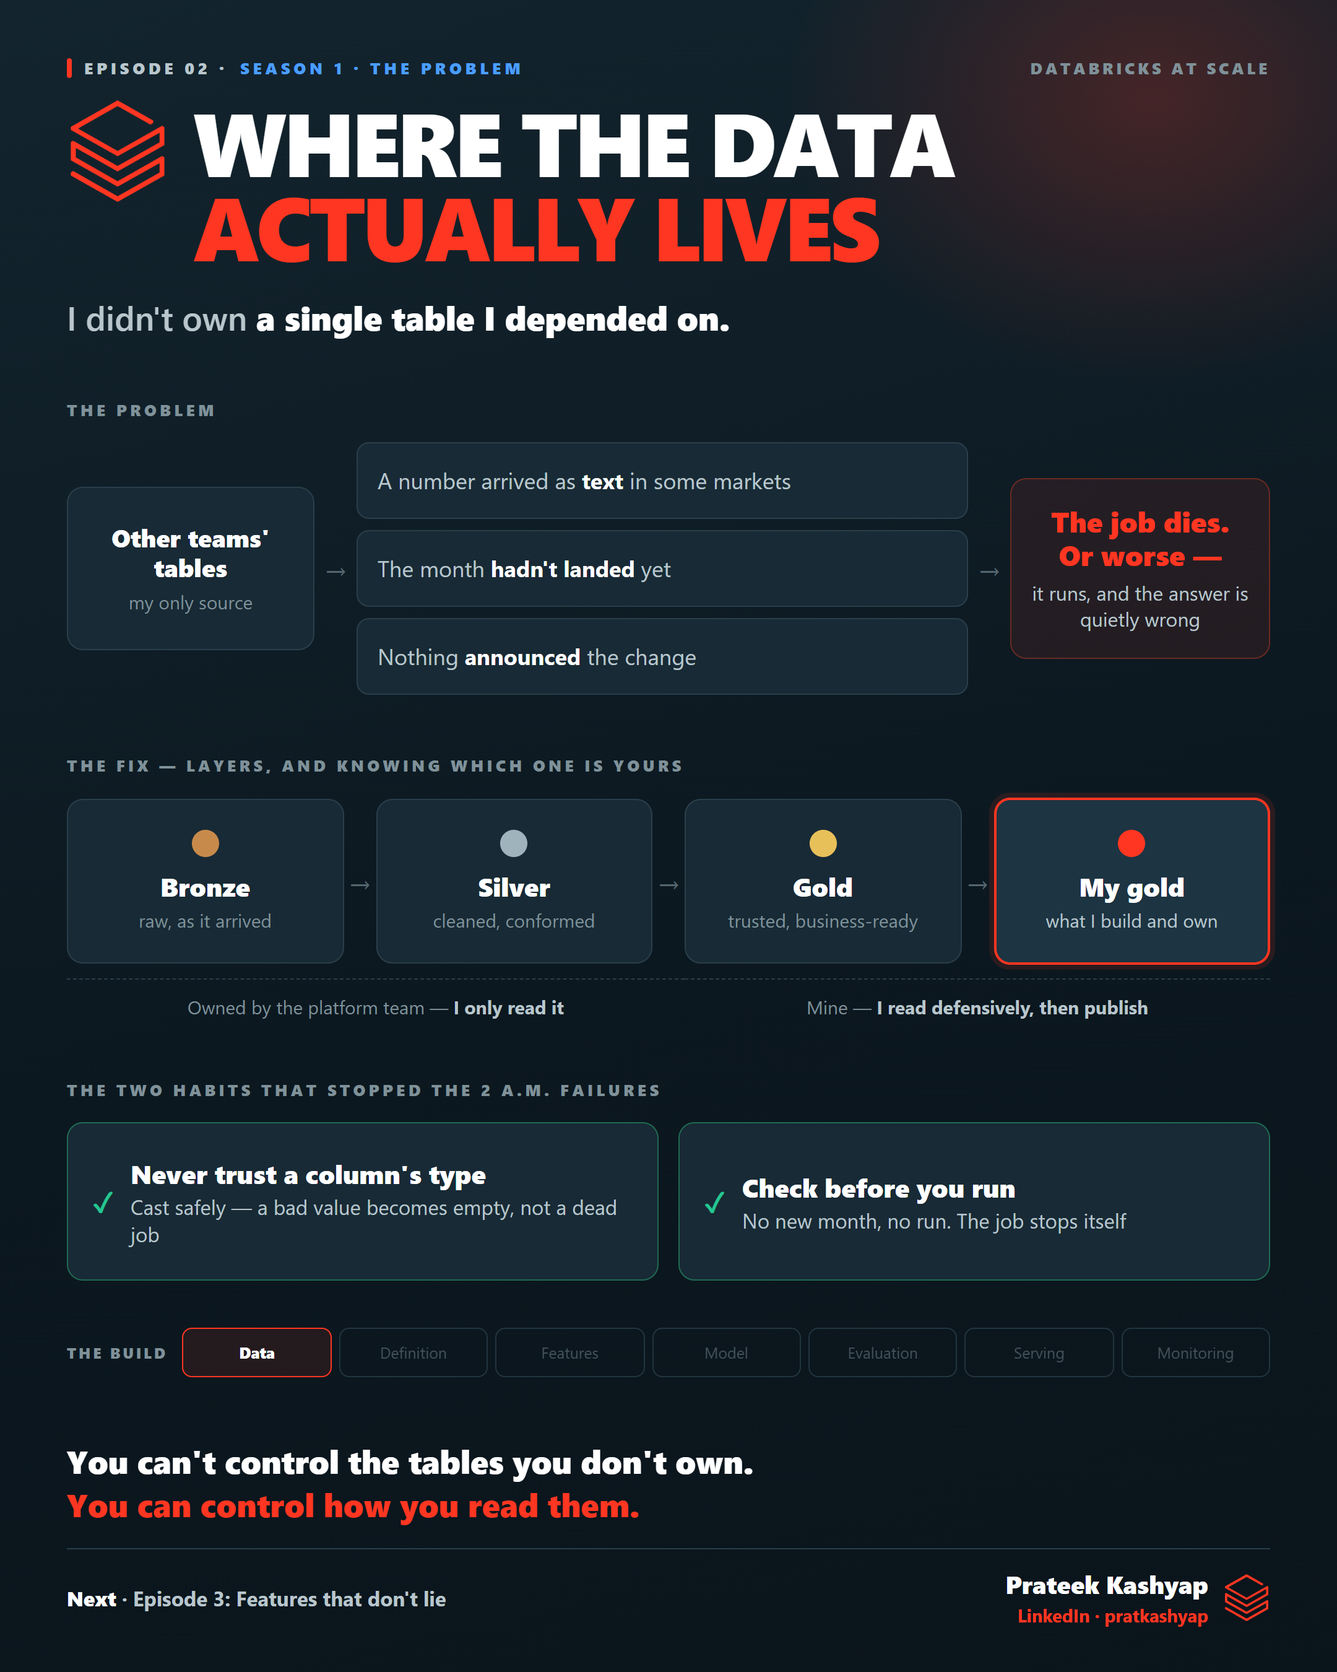
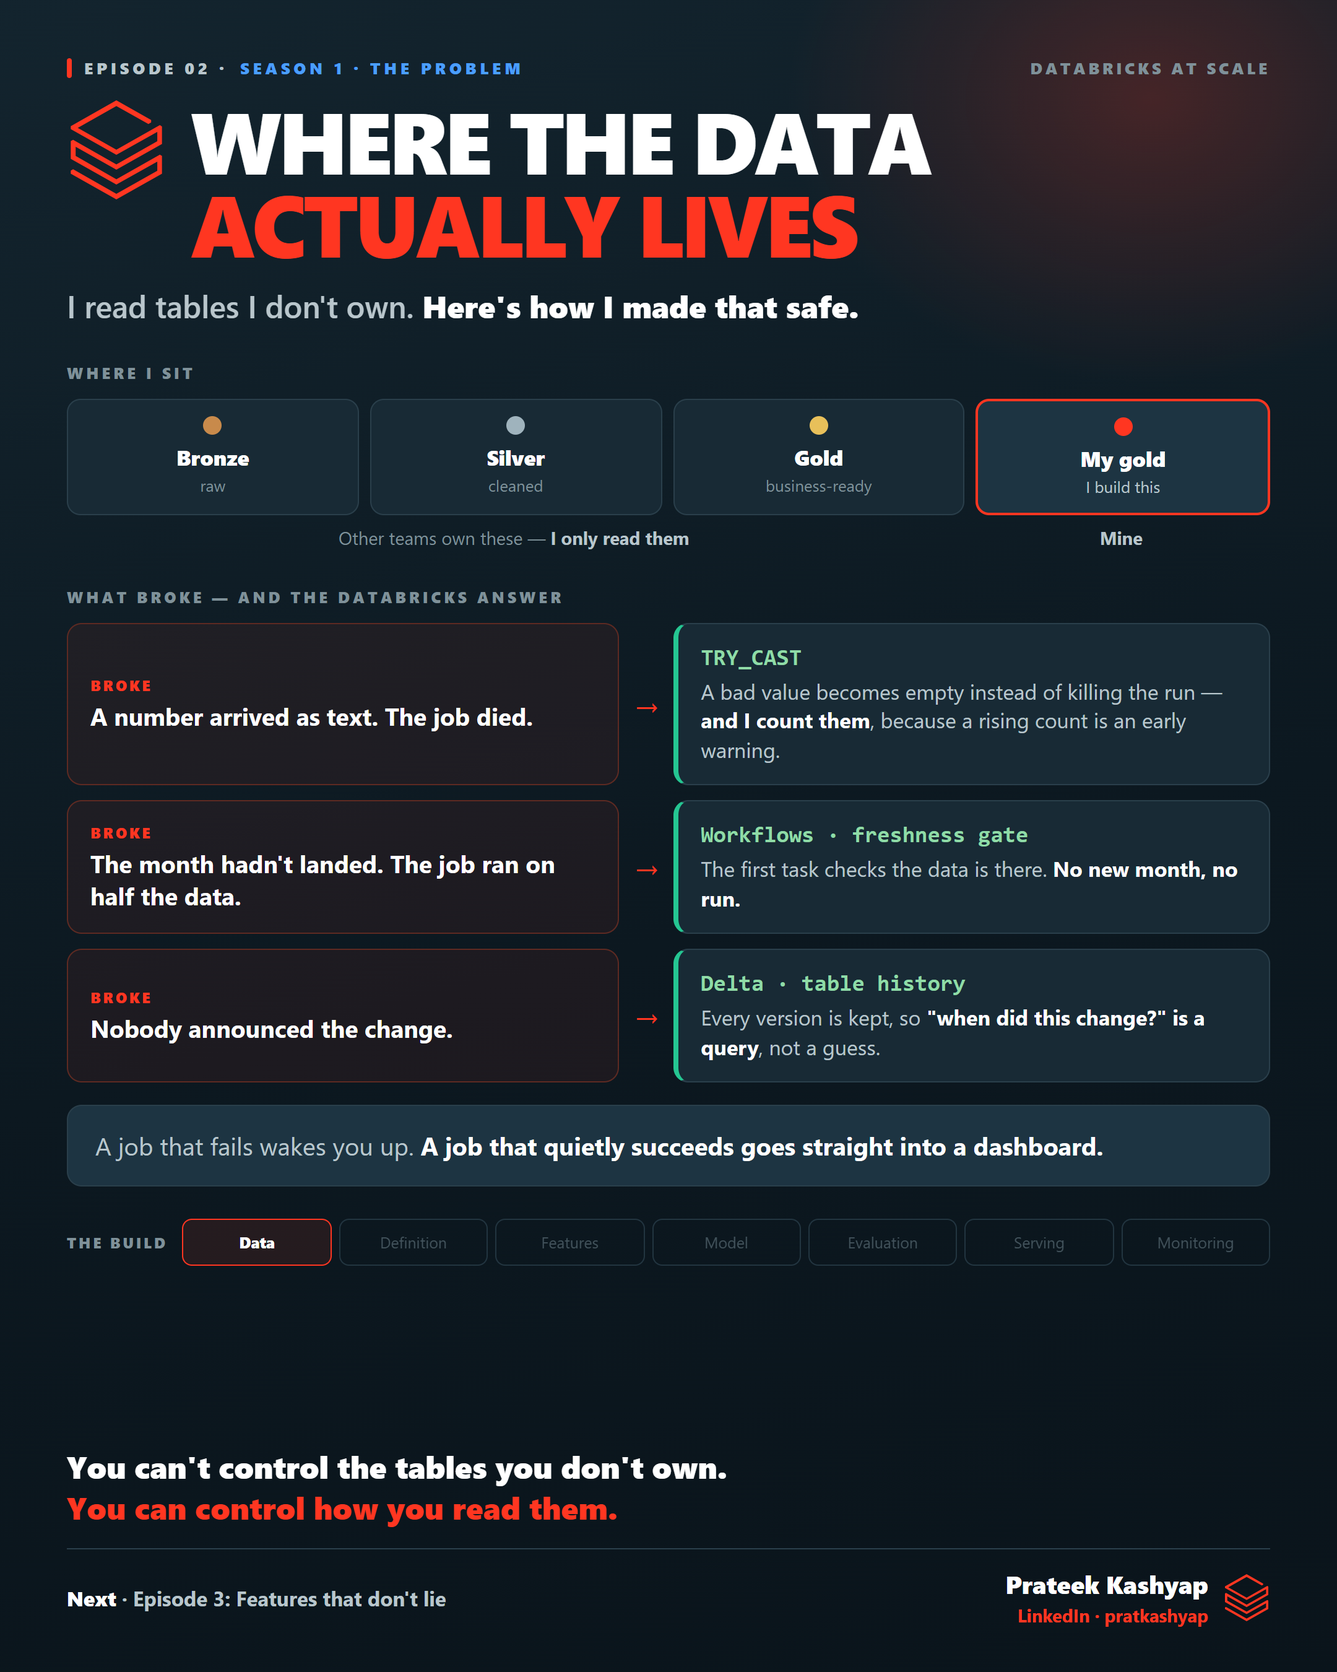
Episode 02 rewritten: pair every problem with the feature that solves it
The post named three failures then named Delta features that solved none of
them. Now each problem is answered one-to-one, and the poster shows the same
three pairs in the same order.

diff --git a/episodes/02-where-the-data-lives/ep02-poster.html b/episodes/02-where-the-data-lives/ep02-poster.html
@@ -7,7 +7,7 @@
   :root{
     --bg1:#0c1820; --bg2:#13242e; --card:#182a35;
     --ink:#ffffff; --ink2:#b9c6cc; --ink3:#7f9199; --dim:#54666f;
-    --red:#ff3621; --line:#2a3f4b; --s1:#4a9eff; --good:#25c692; --warn:#ffb020;
+    --red:#ff3621; --line:#2a3f4b; --s1:#4a9eff; --good:#25c692;
     --bronze:#c88a4b; --silver:#9fb3bd; --gold:#e8c05a;
   }
   *{box-sizing:border-box;margin:0;padding:0}
@@ -24,59 +24,51 @@
   .badge .s{color:var(--s1)}
   .badge .series{margin-left:auto;color:var(--ink3);letter-spacing:.18em}
   .title{display:grid;grid-template-columns:auto 1fr;column-gap:20px;margin-top:16px;align-items:start}
-  .logo{width:82px;height:82px;margin-top:2px}
-  h1{font-size:72px;line-height:.95;letter-spacing:-.04em;font-weight:900;text-transform:uppercase}
+  .logo{width:80px;height:80px;margin-top:2px}
+  h1{font-size:70px;line-height:.95;letter-spacing:-.04em;font-weight:900;text-transform:uppercase}
   h1 .l2{display:block;color:var(--red)}
-  .sub{font-size:27px;font-weight:600;color:var(--ink2);margin-top:22px}
+  .sub{font-size:25px;font-weight:600;color:var(--ink2);margin-top:18px}
   .sub b{color:#fff;font-weight:800}
 
-  .h{font-size:13px;font-weight:800;letter-spacing:.2em;text-transform:uppercase;color:var(--ink3);margin:48px 0 18px}
+  .h{font-size:12.5px;font-weight:800;letter-spacing:.2em;text-transform:uppercase;color:var(--ink3);margin:30px 0 13px}
 
-  /* band 1 */
-  .mess{display:grid;grid-template-columns:200px 34px 1fr 34px 210px;align-items:center}
-  .mk{background:var(--card);border:1.5px solid var(--line);border-radius:13px;padding:28px 16px;text-align:center}
-  .mk .lb{font-size:20px;font-weight:800;line-height:1.2}
-  .mk .cap{font-size:15px;color:var(--ink3);margin-top:6px}
-  .arw{text-align:center;color:var(--dim);font-size:22px;font-weight:700}
-  .qs{display:flex;flex-direction:column;gap:9px}
-  .q{background:var(--card);border:1.5px solid var(--line);border-radius:10px;padding:18px 16px;font-size:18px;color:var(--ink2)}
-  .q b{color:#fff;font-weight:700}
-  .bad{background:rgba(255,54,33,.09);border:1.5px solid #6a2a22;border-radius:13px;padding:20px 14px;text-align:center}
-  .bad .big{font-size:23px;font-weight:900;color:var(--red);line-height:1.2}
-  .bad .cap{font-size:16px;color:var(--ink2);margin-top:7px;line-height:1.3}
+  /* where I sit */
+  .lanes{display:flex;align-items:stretch;gap:9px}
+  .lane{flex:1;background:var(--card);border:1.5px solid var(--line);border-radius:11px;padding:13px 10px;text-align:center}
+  .lane .dot{width:15px;height:15px;border-radius:50%;margin:0 auto 7px}
+  .lane .t{font-size:17px;font-weight:800}
+  .lane .c{font-size:13px;color:var(--ink3);margin-top:3px}
+  .lane.mine{border:2px solid var(--red);background:#1d3442}
+  .lane.mine .c{color:var(--ink2)}
+  .own{display:grid;grid-template-columns:3fr 1fr;gap:9px;margin-top:8px;font-size:14.5px}
+  .own div{text-align:center;color:var(--ink3)}
+  .own b{color:var(--ink2)}
 
-  /* band 2 - medallion */
-  .med{display:grid;grid-template-columns:1fr 26px 1fr 26px 1fr 26px 1fr;align-items:center}
-  .lay{background:var(--card);border:1.5px solid var(--line);border-radius:13px;padding:24px 14px;text-align:center}
-  .lay .dot{width:22px;height:22px;border-radius:50%;margin:0 auto 9px}
-  .lay .t{font-size:21px;font-weight:900}
-  .lay .c{font-size:15px;color:var(--ink3);margin-top:5px;line-height:1.3}
-  .lay.mine{border:2px solid var(--red);background:#1d3442;box-shadow:0 0 0 4px rgba(255,54,33,.12)}
-  .lay.mine .c{color:var(--ink2)}
-  .owner{display:grid;grid-template-columns:calc(50% + 13px) 1fr;gap:0;margin-top:11px;font-size:15px}
-  .owner div{text-align:center;color:var(--ink3);border-top:1.5px dashed var(--line);padding-top:12px}
-  .owner b{color:var(--ink2)}
+  /* problem -> answer */
+  .pair{display:grid;grid-template-columns:1fr 44px 1.08fr;align-items:stretch;margin-bottom:12px}
+  .pb{background:rgba(255,54,33,.07);border:1.5px solid #5e2a22;border-radius:12px;padding:16px 18px;display:flex;flex-direction:column;justify-content:center}
+  .pb .n{font-size:12px;font-weight:800;letter-spacing:.16em;text-transform:uppercase;color:var(--red);margin-bottom:5px}
+  .pb .t{font-size:19.5px;font-weight:700;line-height:1.32;color:#fff}
+  .ar{display:flex;align-items:center;justify-content:center;color:var(--red);font-size:24px;font-weight:700}
+  .an{background:var(--card);border:1.5px solid var(--line);border-left:4px solid var(--good);border-radius:12px;padding:16px 18px}
+  .an .tool{font-family:Consolas,"SF Mono",Menlo,monospace;font-size:18.5px;font-weight:700;color:#8fdba7}
+  .an .t{font-size:17px;color:var(--ink2);line-height:1.38;margin-top:5px}
+  .an .t b{color:#fff}
 
-  /* band 3 */
-  .two{display:grid;grid-template-columns:1fr 1fr;gap:16px}
-  .k{background:var(--card);border:1.5px solid var(--line);border-radius:13px;padding:26px 20px;display:flex;align-items:center;gap:14px}
-  .k.in{border-color:#1f6b53} .k.out{border-color:#6b5520}
-  .k .tick{font-size:22px;font-weight:900;flex:none}
-  .k.in .tick{color:var(--good)} .k.out .tick{color:var(--warn)}
-  .k .kn{font-size:21px;font-weight:900}
-  .k .kw{font-size:16.5px;color:var(--ink2);margin-top:2px}
+  .rule{margin-top:6px;background:#1d3442;border:1.5px solid var(--line);border-radius:12px;padding:18px 22px;font-size:20px;line-height:1.4;color:var(--ink2)}
+  .rule b{color:#fff}
 
-  .strip{margin-top:38px;display:flex;align-items:center;gap:6px}
+  .strip{margin-top:26px;display:flex;align-items:center;gap:6px}
   .sl{font-size:12px;font-weight:800;letter-spacing:.16em;text-transform:uppercase;color:var(--ink3);white-space:nowrap;margin-right:6px}
-  .sn{flex:1;border:1.5px solid var(--line);border-radius:8px;padding:11px 3px;text-align:center;font-size:12.5px;color:var(--dim);opacity:.75}
+  .sn{flex:1;border:1.5px solid var(--line);border-radius:8px;padding:10px 3px;text-align:center;font-size:12.5px;color:var(--dim);opacity:.75}
   .sn.on{opacity:1;color:#fff;font-weight:800;border-color:var(--red);background:rgba(255,54,33,.1)}
 
-  .take{margin-top:auto;padding-top:22px;font-size:26px;font-weight:800;line-height:1.35}
+  .take{margin-top:auto;padding-top:20px;font-size:25px;font-weight:800;line-height:1.35}
   .take span{color:var(--red)}
-  .foot{margin-top:18px;padding-top:14px;border-top:1.5px solid var(--line);display:flex;align-items:center;justify-content:space-between}
+  .foot{margin-top:16px;padding-top:14px;border-top:1.5px solid var(--line);display:flex;align-items:center;justify-content:space-between}
   .fl{font-size:16.5px;font-weight:700;color:var(--ink2)} .fl b{color:#fff}
   .fr{display:flex;align-items:center;gap:12px;text-align:right}
-  .fr .n{font-size:20px;font-weight:900}
+  .fr .n2{font-size:20px;font-weight:900}
   .fr .u{font-size:14.5px;font-weight:700;color:var(--red);margin-top:2px}
   .fr svg{width:38px;height:38px}
 </style>
@@ -91,43 +83,41 @@
     <svg class="logo" viewBox="0 0 24 24" fill="#FF3621"><path d="M.95 14.184L12 20.403l9.919-5.55v2.21L12 22.662l-10.484-5.96-.565.308v.77L12 24l11.05-6.218v-4.317l-.515-.309L12 19.118l-9.867-5.653v-2.21L12 16.805l11.05-6.218V6.32l-.515-.308L12 11.974 2.647 6.681 12 1.388l7.76 4.368.668-.411v-.566L12 0 .95 6.27v.72L12 13.207l9.919-5.55v2.26L12 15.52 1.516 9.56l-.565.308Z"/></svg>
     <h1>Where the data<span class="l2">actually lives</span></h1>
   </div>
-  <div class="sub">I didn't own <b>a single table I depended on.</b></div>
+  <div class="sub">I read tables I don't own. <b>Here's how I made that safe.</b></div>
 
-  <div class="h">The problem</div>
-  <div class="mess">
-    <div class="mk"><div class="lb">Other teams'<br>tables</div><div class="cap">my only source</div></div>
-    <div class="arw">→</div>
-    <div class="qs">
-      <div class="q">A number arrived as <b>text</b> in some markets</div>
-      <div class="q">The month <b>hadn't landed</b> yet</div>
-      <div class="q">Nothing <b>announced</b> the change</div>
-    </div>
-    <div class="arw">→</div>
-    <div class="bad"><div class="big">The job dies.<br>Or worse —</div><div class="cap">it runs, and the answer is quietly wrong</div></div>
+  <div class="h">Where I sit</div>
+  <div class="lanes">
+    <div class="lane"><div class="dot" style="background:var(--bronze)"></div><div class="t">Bronze</div><div class="c">raw</div></div>
+    <div class="lane"><div class="dot" style="background:var(--silver)"></div><div class="t">Silver</div><div class="c">cleaned</div></div>
+    <div class="lane"><div class="dot" style="background:var(--gold)"></div><div class="t">Gold</div><div class="c">business-ready</div></div>
+    <div class="lane mine"><div class="dot" style="background:var(--red)"></div><div class="t">My gold</div><div class="c">I build this</div></div>
   </div>
+  <div class="own"><div>Other teams own these — <b>I only read them</b></div><div><b>Mine</b></div></div>
 
-  <div class="h">The fix — layers, and knowing which one is yours</div>
-  <div class="med">
-    <div class="lay"><div class="dot" style="background:var(--bronze)"></div><div class="t">Bronze</div><div class="c">raw, as it arrived</div></div>
-    <div class="arw">→</div>
-    <div class="lay"><div class="dot" style="background:var(--silver)"></div><div class="t">Silver</div><div class="c">cleaned, conformed</div></div>
-    <div class="arw">→</div>
-    <div class="lay"><div class="dot" style="background:var(--gold)"></div><div class="t">Gold</div><div class="c">trusted, business-ready</div></div>
-    <div class="arw">→</div>
-    <div class="lay mine"><div class="dot" style="background:var(--red)"></div><div class="t">My gold</div><div class="c">what I build and own</div></div>
-  </div>
-  <div class="owner">
-    <div>Owned by the platform team — <b>I only read it</b></div>
-    <div>Mine — <b>I read defensively, then publish</b></div>
+  <div class="h">What broke — and the Databricks answer</div>
+
+  <div class="pair">
+    <div class="pb"><div class="n">Broke</div><div class="t">A number arrived as text. The job died.</div></div>
+    <div class="ar">→</div>
+    <div class="an"><div class="tool">TRY_CAST</div>
+      <div class="t">A bad value becomes empty instead of killing the run — <b>and I count them</b>, because a rising count is an early warning.</div></div>
   </div>
 
-  <div class="h">The two habits that stopped the 2 a.m. failures</div>
-  <div class="two">
-    <div class="k in"><span class="tick">✓</span><div><div class="kn">Never trust a column's type</div>
-      <div class="kw">Cast safely — a bad value becomes empty, not a dead job</div></div></div>
-    <div class="k in"><span class="tick">✓</span><div><div class="kn">Check before you run</div>
-      <div class="kw">No new month, no run. The job stops itself</div></div></div>
+  <div class="pair">
+    <div class="pb"><div class="n">Broke</div><div class="t">The month hadn't landed. The job ran on half the data.</div></div>
+    <div class="ar">→</div>
+    <div class="an"><div class="tool">Workflows · freshness gate</div>
+      <div class="t">The first task checks the data is there. <b>No new month, no run.</b></div></div>
   </div>
+
+  <div class="pair">
+    <div class="pb"><div class="n">Broke</div><div class="t">Nobody announced the change.</div></div>
+    <div class="ar">→</div>
+    <div class="an"><div class="tool">Delta · table history</div>
+      <div class="t">Every version is kept, so <b>"when did this change?" is a query</b>, not a guess.</div></div>
+  </div>
+
+  <div class="rule">A job that fails wakes you up. <b>A job that quietly succeeds goes straight into a dashboard.</b></div>
 
   <div class="strip">
     <span class="sl">The build</span>
@@ -145,7 +135,7 @@
   <div class="foot">
     <div class="fl"><b>Next</b> · Episode 3: Features that don't lie</div>
     <div class="fr">
-      <div><div class="n">Prateek Kashyap</div><div class="u">LinkedIn · pratkashyap</div></div>
+      <div><div class="n2">Prateek Kashyap</div><div class="u">LinkedIn · pratkashyap</div></div>
       <svg viewBox="0 0 24 24" fill="#FF3621"><path d="M.95 14.184L12 20.403l9.919-5.55v2.21L12 22.662l-10.484-5.96-.565.308v.77L12 24l11.05-6.218v-4.317l-.515-.309L12 19.118l-9.867-5.653v-2.21L12 16.805l11.05-6.218V6.32l-.515-.308L12 11.974 2.647 6.681 12 1.388l7.76 4.368.668-.411v-.566L12 0 .95 6.27v.72L12 13.207l9.919-5.55v2.26L12 15.52 1.516 9.56l-.565.308Z"/></svg>
     </div>
   </div>

diff --git a/episodes/02-where-the-data-lives/ep02-post.md b/episodes/02-where-the-data-lives/ep02-post.md
@@ -1,37 +1,44 @@
 # Episode 02 · LinkedIn post
 
-> Matches Episode 01 **as published**: heading line `Databricks at Scale · Ep N · Title`, no blank line after it, lead-ins merged onto the same line as their first sentence, a space before colons, no "link in the comments" line, long tag block with company tags.
-> Copy the box, paste into LinkedIn, attach [`ep02-poster.png`](ep02-poster.png). **2,405 of 3,000 characters.** Full detail: [`ep02-learn.md`](ep02-learn.md).
+> Each problem is paired with the Databricks feature that actually solves it, and the poster shows the same three pairs. **1,799 of 3,000 characters.** Full detail: [`ep02-learn.md`](ep02-learn.md).
 
 ```
 𝗗𝗮𝘁𝗮𝗯𝗿𝗶𝗰𝗸𝘀 𝗮𝘁 𝗦𝗰𝗮𝗹𝗲 · 𝗘𝗽 𝟮 · 𝗪𝗵𝗲𝗿𝗲 𝘁𝗵𝗲 𝗱𝗮𝘁𝗮 𝗮𝗰𝘁𝘂𝗮𝗹𝗹𝘆 𝗹𝗶𝘃𝗲𝘀
+
 In Episode 1 we agreed what churn meant. Then I looked at what it was built on.
+
 𝗜 𝗱𝗶𝗱𝗻'𝘁 𝗼𝘄𝗻 𝗮 𝘀𝗶𝗻𝗴𝗹𝗲 𝘁𝗮𝗯𝗹𝗲 𝗜 𝗱𝗲𝗽𝗲𝗻𝗱𝗲𝗱 𝗼𝗻.
 
-Billing facts, session summaries, viewing events : all owned by other teams. You get the data, but no say in when it arrives and no warning when it changes.
 
-Three things went wrong. All three are normal :
-→ A number arrived as 𝘁𝗲𝘅𝘁 in some markets. The job died.
-→ The month 𝗵𝗮𝗱𝗻'𝘁 𝗳𝘂𝗹𝗹𝘆 𝗹𝗮𝗻𝗱𝗲𝗱. The job succeeded, on half the data.
-→ Nothing 𝗮𝗻𝗻𝗼𝘂𝗻𝗰𝗲𝗱 the change.
-The second one is the dangerous one. A job that fails wakes you up. A job that quietly succeeds goes straight into a dashboard.
+Databricks keeps data in three layers : 𝗯𝗿𝗼𝗻𝘇𝗲 (raw) · 𝘀𝗶𝗹𝘃𝗲𝗿 (cleaned) · 𝗴𝗼𝗹𝗱 (business-ready).
 
-𝗟𝗮𝘆𝗲𝗿𝘀, 𝗮𝗻𝗱 𝗸𝗻𝗼𝘄𝗶𝗻𝗴 𝘄𝗵𝗶𝗰𝗵 𝗼𝗻𝗲 𝗶𝘀 𝘆𝗼𝘂𝗿𝘀: Databricks organises data in three layers — 𝗯𝗿𝗼𝗻𝘇𝗲 (raw) · 𝘀𝗶𝗹𝘃𝗲𝗿 (cleaned) · 𝗴𝗼𝗹𝗱 (business-ready).
-I read other teams' gold. I publish my own. I never touch bronze or silver. A healthy place to sit — it just means the risk lives at the boundary.
+Other teams own bronze and silver. I read their gold, and publish my own. Every risk sits on that one boundary.
 
-𝗪𝗵𝗮𝘁 𝗗𝗲𝗹𝘁𝗮 𝗴𝗶𝘃𝗲𝘀 𝘆𝗼𝘂 𝘂𝗻𝗱𝗲𝗿𝗻𝗲𝗮𝘁𝗵 :
-→ 𝗦𝗰𝗵𝗲𝗺𝗮 𝗲𝗻𝗳𝗼𝗿𝗰𝗲𝗺𝗲𝗻𝘁 — a bad shape is rejected, not silently mangled
-→ 𝗧𝗶𝗺𝗲 𝘁𝗿𝗮𝘃𝗲𝗹 — read the table as it was last month, so "why did this number move?" stops being a guess
 
-𝗧𝗵𝗲 𝘁𝘄𝗼 𝗵𝗮𝗯𝗶𝘁𝘀 𝘁𝗵𝗮𝘁 𝘀𝘁𝗼𝗽𝗽𝗲𝗱 𝘁𝗵𝗲 𝟮 𝗮.𝗺. 𝗳𝗮𝗶𝗹𝘂𝗿𝗲𝘀:
-𝗡𝗲𝘃𝗲𝗿 𝘁𝗿𝘂𝘀𝘁 𝗮 𝗰𝗼𝗹𝘂𝗺𝗻'𝘀 𝘁𝘆𝗽𝗲 : cast safely, so a bad value becomes empty instead of killing the job — and count how often it happens.
-𝗖𝗵𝗲𝗰𝗸 𝗯𝗲𝗳𝗼𝗿𝗲 𝘆𝗼𝘂 𝗿𝘂𝗻 : no new month, no run. The job stops itself.
+Three things broke there. Each one has a Databricks answer :
+
+𝟭. A number arrived as text. The job died.
+→ 𝗧𝗥𝗬_𝗖𝗔𝗦𝗧 turns a bad value into an empty one instead of killing the run. And I count them, because a rising count is an early warning.
+
+𝟮. The month hadn't landed. The job ran on half the data.
+→ A 𝗳𝗿𝗲𝘀𝗵𝗻𝗲𝘀𝘀 𝗴𝗮𝘁𝗲 as the first task in the Workflow : no new month, no run.
+
+𝟯. Nobody announced the change.
+→ 𝗗𝗲𝗹𝘁𝗮 keeps every version of a table, so "when did this change?" is a query, not a guess.
+
+
+𝗧𝗵𝗲 𝗼𝗻𝗲 𝘁𝗼 𝗿𝗲𝗺𝗲𝗺𝗯𝗲𝗿 : a job that fails wakes you up. A job that quietly succeeds goes straight into a dashboard.
+
 
 𝗡𝗲𝘅𝘁 𝗳𝗼𝗿 𝗺𝗲: Lakeflow and Auto Loader, for data that arrives continuously instead of once a month.
-𝗪𝗵𝗮𝘁 𝗶𝘁 𝗰𝗼𝘀𝘁: slower queries, less elegant code, and some mornings when the pipeline simply doesn't run. All worth it.
+
+𝗪𝗵𝗮𝘁 𝗶𝘁 𝗰𝗼𝘀𝘁: slower queries and less elegant code. Worth it.
+
 𝗬𝗼𝘂 𝗰𝗮𝗻'𝘁 𝗰𝗼𝗻𝘁𝗿𝗼𝗹 𝘁𝗵𝗲 𝘁𝗮𝗯𝗹𝗲𝘀 𝘆𝗼𝘂 𝗱𝗼𝗻'𝘁 𝗼𝘄𝗻. 𝗬𝗼𝘂 𝗰𝗮𝗻 𝗰𝗼𝗻𝘁𝗿𝗼𝗹 𝗵𝗼𝘄 𝘆𝗼𝘂 𝗿𝗲𝗮𝗱 𝘁𝗵𝗲𝗺.
 
+
 Next Episode 3 · 𝗙𝗲𝗮𝘁𝘂𝗿𝗲𝘀 𝘁𝗵𝗮𝘁 𝗱𝗼𝗻'𝘁 𝗹𝗶𝗲 drops next week.
+
 #Databricks #DataScience #MachineLearning #Analytics #Lakehouse #DeltaLake #dataengineering #mlops #churn #SingaporeAI #agenticAI Databricks Anthropic Microsoft Microsoft Copilot #Dubai #Singapore #TechinAsia #claude #claudecode #cursor Cursor
 ```
 

diff --git a/design/design-log.md b/design/design-log.md
@@ -146,6 +146,23 @@ Length to aim for: **2,100–2,600 characters**. Episode 02 came in at 2,405.
 
 ---
 
+### Episode 02, second pass — the post and the image must answer the same questions
+*2026-10-15.* Prateek: *"still looks too off beat, I cannot connect the story to the image."*
+
+**Root cause:** the post named three failures (a column arriving as text, a month not landed, no announcement) and then named two Delta features (schema enforcement, time travel) that solve **none of them**. Schema enforcement protects what *you* write; it does nothing about a bad column upstream. A practitioner feels that gap even without naming it, and the expertise stops landing.
+
+**Fix — one-to-one pairing**, in both the post and the poster:
+
+| What broke | The Databricks answer |
+|---|---|
+| A number arrived as text | `TRY_CAST` — bad value becomes empty, and count them |
+| The month hadn't landed | A freshness gate as the Workflow's first task |
+| Nobody announced the change | Delta table history — every version kept |
+
+**Rule for every episode from here:** list the problems, then answer each one with a named Databricks mechanism. Never list capabilities that don't solve a problem you just described — that is what makes a post feel like a brochure. The poster must show the same pairs, in the same order.
+
+---
+
 ## 2. What we built, and the verdicts
 
 ### Episode 02 poster · the three-band template, reused — ⏳ AWAITING VERDICT

diff --git a/.claude/skills/databricks-at-scale/SKILL.md b/.claude/skills/databricks-at-scale/SKILL.md
@@ -50,6 +50,7 @@ Trailer 00 (posted 2026-09-11) · **S1 The Problem:** 01 Nobody agreed what chur
 - **Never name the employer or any of its brands or products**, in any file, commit message or image. Always write "a subscription streaming business". Before every push, scan the repo, the git history and `../LinkedIn/`.
 - **Confidentiality:** describe methods and patterns only. No figures, no market names, no internal table, tool or catalog names, no employer-specific details. Illustrative numbers are labelled as made up.
 - **Feature names:** Databricks renames and ships features quickly. Flag anything recent (metric views, Genie and similar) to be checked against the current docs.
+- **Answer what you asked.** Every Databricks feature named in a post or poster must solve a problem named in the same piece, paired one-to-one and in the same order in both. Listing capabilities that answer nothing reads as a brochure.
 - **The layman test.** Read the poster as someone who has never opened Databricks. If the biggest element is something they would skip, rebuild it.
 - **The canonical build strip**, on every poster, lighting this episode's stage: `Data · Definition · Features · Model · Evaluation · Serving · Monitoring`.
 - **Stay in your episode's lane.** `PROGRESS.md` holds the feature ownership map; each Databricks feature is explained in exactly one episode. Other episodes' features may appear dim in the stack strip, never explained.
